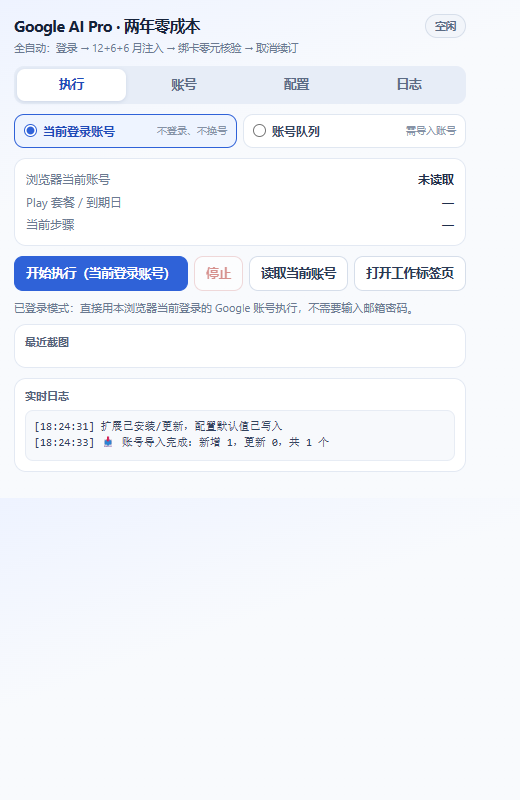
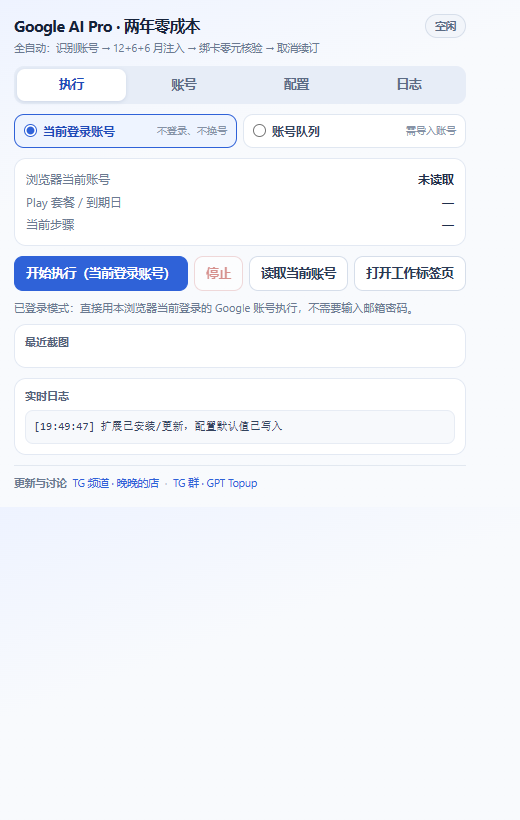
docs: 补充社区入口（README 中英 + 弹窗页脚）
- README.md / README.en.md 增加「交流与更新 / Community & updates」与「找到我们 / Find us」小节
- 文首增加一行社区入口链接
- popup 页脚增加「更新与讨论」链接行
- 同步更新截图与 CHANGELOG

diff --git a/popup.css b/popup.css
@@ -207,6 +207,27 @@ input:focus, textarea:focus { outline: 2px solid #9db8ee; outline-offset: 0; }
 
 .permstate { font-size: 11px; color: #6b7a91; align-self: center; }
 
+.foot {
+  display: flex;
+  align-items: center;
+  gap: 6px;
+  flex-wrap: wrap;
+  margin-top: 4px;
+  padding-top: 9px;
+  border-top: 1px solid #e2e8f0;
+  font-size: 10.5px;
+  color: #8592a6;
+}
+.foot .foot-title { font-weight: 700; color: #6b7a91; }
+.foot .dot { color: #b7c1cf; }
+.foot a {
+  color: #2f62d8;
+  text-decoration: none;
+  border-radius: 4px;
+}
+.foot a:hover { text-decoration: underline; }
+.foot a:focus-visible { outline: 2px solid #507ce0; outline-offset: 2px; }
+
 .acclist { list-style: none; margin: 0; padding: 0; max-height: 320px; overflow: auto; }
 .acclist li {
   background: #fff;

diff --git a/popup.html b/popup.html
@@ -103,6 +103,13 @@
     </section>
   </main>
 
+  <footer class="foot">
+    <span class="foot-title">更新与讨论</span>
+    <a href="https://t.me/wanwandeshop" target="_blank" rel="noopener">TG 频道 · 晚晚的店</a>
+    <span class="dot">·</span>
+    <a href="https://t.me/gpt_topup" target="_blank" rel="noopener">TG 群 · GPT Topup</a>
+  </footer>
+
   <script src="popup.js"></script>
 </body>
 </html>

diff --git a/README.en.md b/README.en.md
@@ -7,6 +7,10 @@
 
 [中文说明](README.md) · [Changelog](CHANGELOG.md)
 
+> 📣 Updates and discussion live on Telegram: channel [wanwandeshop](https://t.me/wanwandeshop) ·
+> group [GPT Topup](https://t.me/gpt_topup) — both are dedicated to researching Google AI / ChatGPT
+> subscriptions, zero-cost stacking, and account & payment environments. Token updates and field notes land there first.
+
 ![Control panel · signed-in account mode](docs/screenshots/popup-session-mode.png)
 
 ---
@@ -14,6 +18,7 @@
 ## Table of contents
 
 - [Features](#features)
+- [Community & updates](#community--updates)
 - [Two run modes](#two-run-modes)
 - [Installation](#installation)
 - [Quick start](#quick-start)
@@ -45,6 +50,25 @@
 | Idempotent re-runs | Every layer reads the entitlement first; layers already satisfied are skipped |
 | Crash recovery | Service-worker keep-alive + watchdog; the run resumes from the current step after a browser sleep |
 | Logs & screenshots | Live log, per-step screenshots (optional permission), results written back to the account card |
+
+---
+
+## Community & updates
+
+> When tokens rotate, how to keep an account environment healthy, how Google and Play risk-control behave —
+> nobody figures that out alone. Our Telegram channel and group exist for exactly that research,
+> and every update and known pitfall goes there first.
+
+| | Entry | What's inside |
+| --- | --- | --- |
+| 📣 **Channel · wanwandeshop** | <https://t.me/wanwandeshop> | Releases, token / offer updates, Google & Play policy changes, batch field reports |
+| 💬 **Group · GPT Topup** | <https://t.me/gpt_topup> | Focused on Google AI / ChatGPT subscriptions and top-ups, zero-cost stacking, account & payment environments; errors, stuck orders and root causes get sorted out together |
+
+**Read the channel for updates, ask the group for practice.**
+
+Suggested order: install the extension → check the group for the currently working approach and known pitfalls → then run it.
+Many "failures" are just that day's token or risk-control state changing, and someone in the group has usually
+already found a workaround.
 
 ---
 
@@ -364,6 +388,18 @@ No. Everything is local in `chrome.storage.local`; there is no reporting code.
 
 **Firefox / Safari?**
 Not supported — it relies on Chromium's MV3 `world: "MAIN"` and `scripting.executeScript`.
+
+---
+
+## Find us
+
+| | Entry | Focus |
+| --- | --- | --- |
+| 📣 Telegram channel | <https://t.me/wanwandeshop> | Updates first: releases, tokens, policy changes, field results |
+| 💬 Telegram group | <https://t.me/gpt_topup> | Research on Google AI / ChatGPT subscriptions, top-ups, zero-cost stacking, account & payment environments; ask, report, compare |
+
+Both are single-topic, no noise. Before you run it, skim the group's pinned message — it usually states
+"what works right now" and "what not to touch this week".
 
 ---
 

diff --git a/CHANGELOG.md b/CHANGELOG.md
@@ -23,6 +23,12 @@
 - 账号状态新增 `partial`（待同步），控制台显示「待同步」。
 - 单元测试新增 3 组：试用结束文案、账期容差、月付场景不得误判。
 
+### 文档
+
+- 新增**交流与更新**章节（TG 频道 <https://t.me/wanwandeshop> / 群 <https://t.me/gpt_topup>），
+  并在文首、文末、扩展弹窗底部三处加入引导。
+- 新增完整英文版 `README.en.md`、`CHANGELOG.md`、`LICENSE`、图标与 CI。
+
 ## [2.1.0] — 2026-11-06
 
 ### 新增
